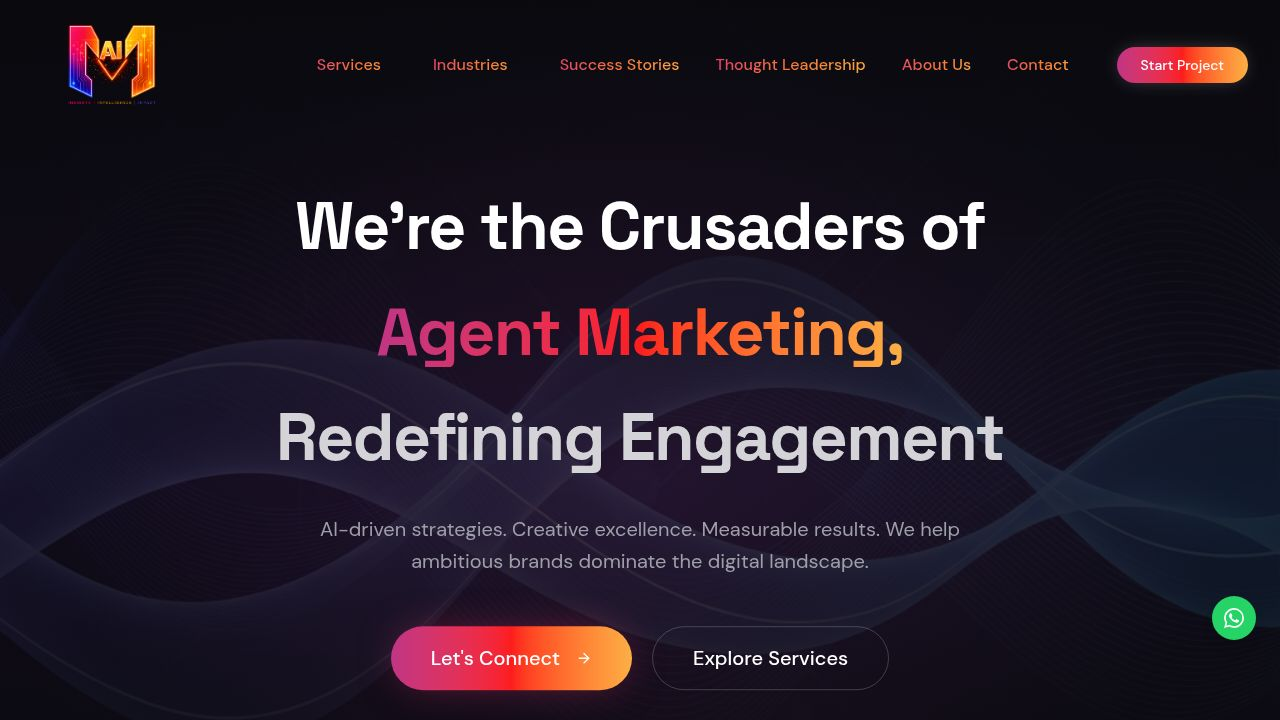
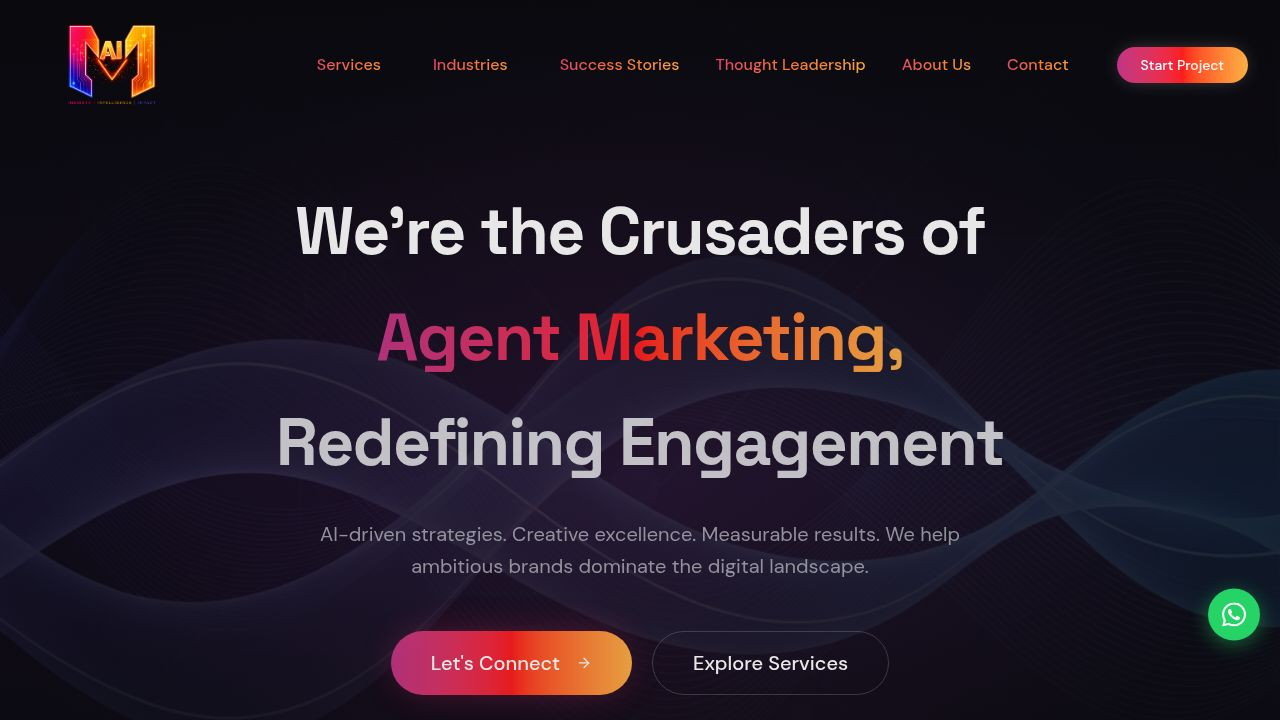
Improve spacing and add animation to homepage elements
Adjusted line spacing in the home page hero section for mobile view and added a floating animation to the WhatsApp button using Framer Motion.

Replit-Commit-Author: Agent
Replit-Commit-Session-Id: e58b841c-12d6-4d93-88cc-16277b7267ad
Replit-Commit-Checkpoint-Type: full_checkpoint
Replit-Commit-Event-Id: 3bede014-61a2-4881-8aaa-a96d3081afdc
Replit-Commit-Screenshot-Url: https://storage.googleapis.com/screenshot-production-us-central1/0cf95cf1-8519-4d56-a164-e0769e667335/e58b841c-12d6-4d93-88cc-16277b7267ad/2LvD9eH
Replit-Helium-Checkpoint-Created: true

diff --git a/client/src/components/ScrollToTopButton.tsx b/client/src/components/ScrollToTopButton.tsx
@@ -1,10 +1,11 @@
 import { useState, useEffect } from "react";
 import { ArrowUp } from "lucide-react";
 import { cn } from "@/lib/utils";
+import { motion } from "framer-motion";
 
 function WhatsAppIcon() {
   return (
-    <svg viewBox="0 0 24 24" className="w-5 h-5 fill-white" xmlns="http://www.w3.org/2000/svg">
+    <svg viewBox="0 0 24 24" className="w-6 h-6 fill-white" xmlns="http://www.w3.org/2000/svg">
       <path d="M17.472 14.382c-.297-.149-1.758-.867-2.03-.967-.273-.099-.471-.148-.67.15-.197.297-.767.966-.94 1.164-.173.199-.347.223-.644.075-.297-.15-1.255-.463-2.39-1.475-.883-.788-1.48-1.761-1.653-2.059-.173-.297-.018-.458.13-.606.134-.133.298-.347.446-.52.149-.174.198-.298.298-.497.099-.198.05-.371-.025-.52-.075-.149-.669-1.612-.916-2.207-.242-.579-.487-.5-.669-.51-.173-.008-.371-.01-.57-.01-.198 0-.52.074-.792.372-.272.297-1.04 1.016-1.04 2.479 0 1.462 1.065 2.875 1.213 3.074.149.198 2.096 3.2 5.077 4.487.709.306 1.262.489 1.694.625.712.227 1.36.195 1.871.118.571-.085 1.758-.719 2.006-1.413.248-.694.248-1.289.173-1.413-.074-.124-.272-.198-.57-.347m-5.421 7.403h-.004a9.87 9.87 0 01-5.031-1.378l-.361-.214-3.741.982.998-3.648-.235-.374a9.86 9.86 0 01-1.51-5.26c.001-5.45 4.436-9.884 9.888-9.884 2.64 0 5.122 1.03 6.988 2.898a9.825 9.825 0 012.893 6.994c-.003 5.45-4.437 9.884-9.885 9.884m8.413-18.297A11.815 11.815 0 0012.05 0C5.495 0 .16 5.335.157 11.892c0 2.096.547 4.142 1.588 5.945L.057 24l6.305-1.654a11.882 11.882 0 005.683 1.448h.005c6.554 0 11.89-5.335 11.893-11.893a11.821 11.821 0 00-3.48-8.413z"/>
     </svg>
   );
@@ -24,17 +25,22 @@ export function ScrollToTopButton() {
   }, []);
 
   return (
-    <div className="fixed bottom-6 right-6 z-50 flex flex-col items-center gap-3">
-      {/* WhatsApp button — always visible */}
-      <a
+    <div className="fixed bottom-6 right-5 z-50 flex flex-col items-center gap-3">
+      {/* WhatsApp button — always visible with floating animation */}
+      <motion.a
         href="https://wa.me/916309966282"
         target="_blank"
         rel="noopener noreferrer"
         aria-label="Chat on WhatsApp"
-        className="w-11 h-11 rounded-full flex items-center justify-center bg-[#25D366] shadow-lg hover:scale-110 active:scale-95 transition-all duration-300"
+        animate={{ y: [-5, 5, -5] }}
+        transition={{ duration: 2.4, repeat: Infinity, ease: "easeInOut" }}
+        whileHover={{ scale: 1.15 }}
+        whileTap={{ scale: 0.92 }}
+        className="w-13 h-13 rounded-full flex items-center justify-center bg-[#25D366] shadow-[0_4px_20px_rgba(37,211,102,0.45)] hover:shadow-[0_6px_28px_rgba(37,211,102,0.65)] transition-shadow duration-300"
+        style={{ width: 52, height: 52 }}
       >
         <WhatsAppIcon />
-      </a>
+      </motion.a>
 
       {/* Scroll-to-top button — appears after 25% scroll */}
       <button

diff --git a/client/src/pages/Home.tsx b/client/src/pages/Home.tsx
@@ -193,12 +193,12 @@ export default function Home() {
             className="max-w-6xl mx-auto"
           >
             {/* Static top line */}
-            <h1 className="text-[34px] md:text-[52px] lg:text-[66px] font-heading font-black leading-[1.05] tracking-tight text-white mb-4">
+            <h1 className="text-[34px] md:text-[52px] lg:text-[66px] font-heading font-black leading-[1.05] tracking-tight text-white mb-1 md:mb-4">
               We're the Crusaders of
             </h1>
 
             {/* Animated cycling word */}
-            <div className="h-[80px] md:h-[100px] lg:h-[110px] flex items-center justify-center overflow-hidden mb-4">
+            <div className="h-[40px] md:h-[100px] lg:h-[110px] flex items-center justify-center overflow-hidden mb-1 md:mb-4">
               <AnimatePresence mode="wait">
                 <motion.span
                   key={wordIndex}